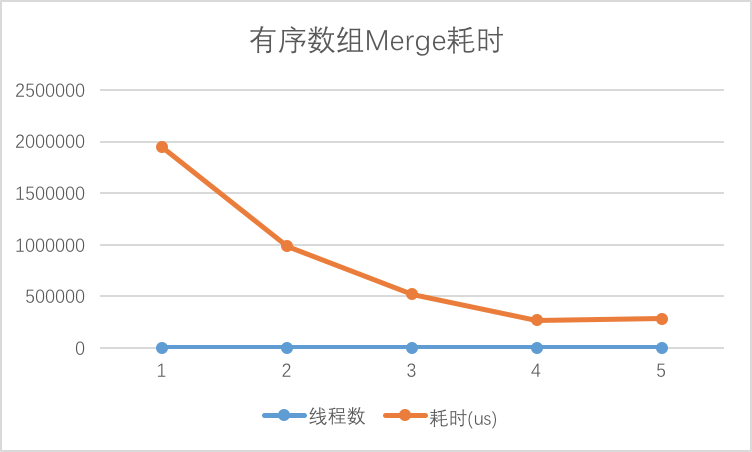
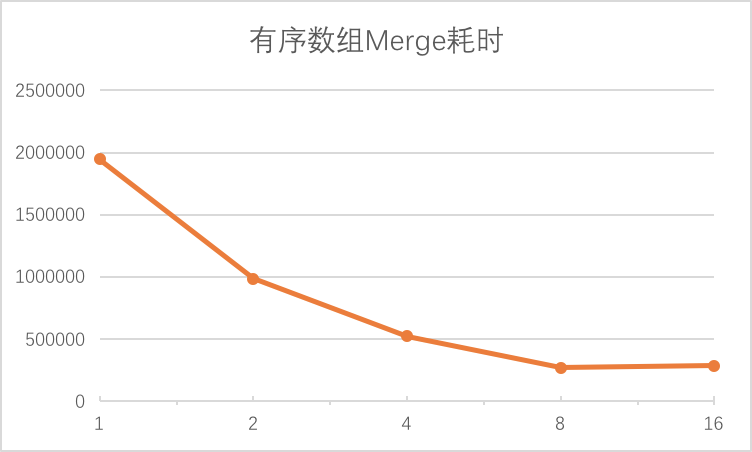
finish performace report

diff --git a/MergeTwoSortListUseMultiCore/README.md b/MergeTwoSortListUseMultiCore/README.md
@@ -2,7 +2,11 @@
 ### 测试机器
 ```
 CPU 8核，2.60GHz，宿主机，KVM虚拟化
-
+```
+### 数据准备
+```
+执行./prepareData 20000000 80000000
+表示生成2个有序数组，数组长度分别为2KW 和 8KW
 ```
 
 ### 测试性能数据
@@ -13,7 +17,6 @@ CPU 8核，2.60GHz，宿主机，KVM虚拟化
 四个线程merge耗时   521818   微秒  相对单进程提高73%  
 八个线程merge耗时   268360   微秒  相对单进程提高86%  
 十六个线程merge耗时 281368   微秒  相对八进程降低4.8%  
-
 ```
 ### 图表
 ![](./merge.png)
